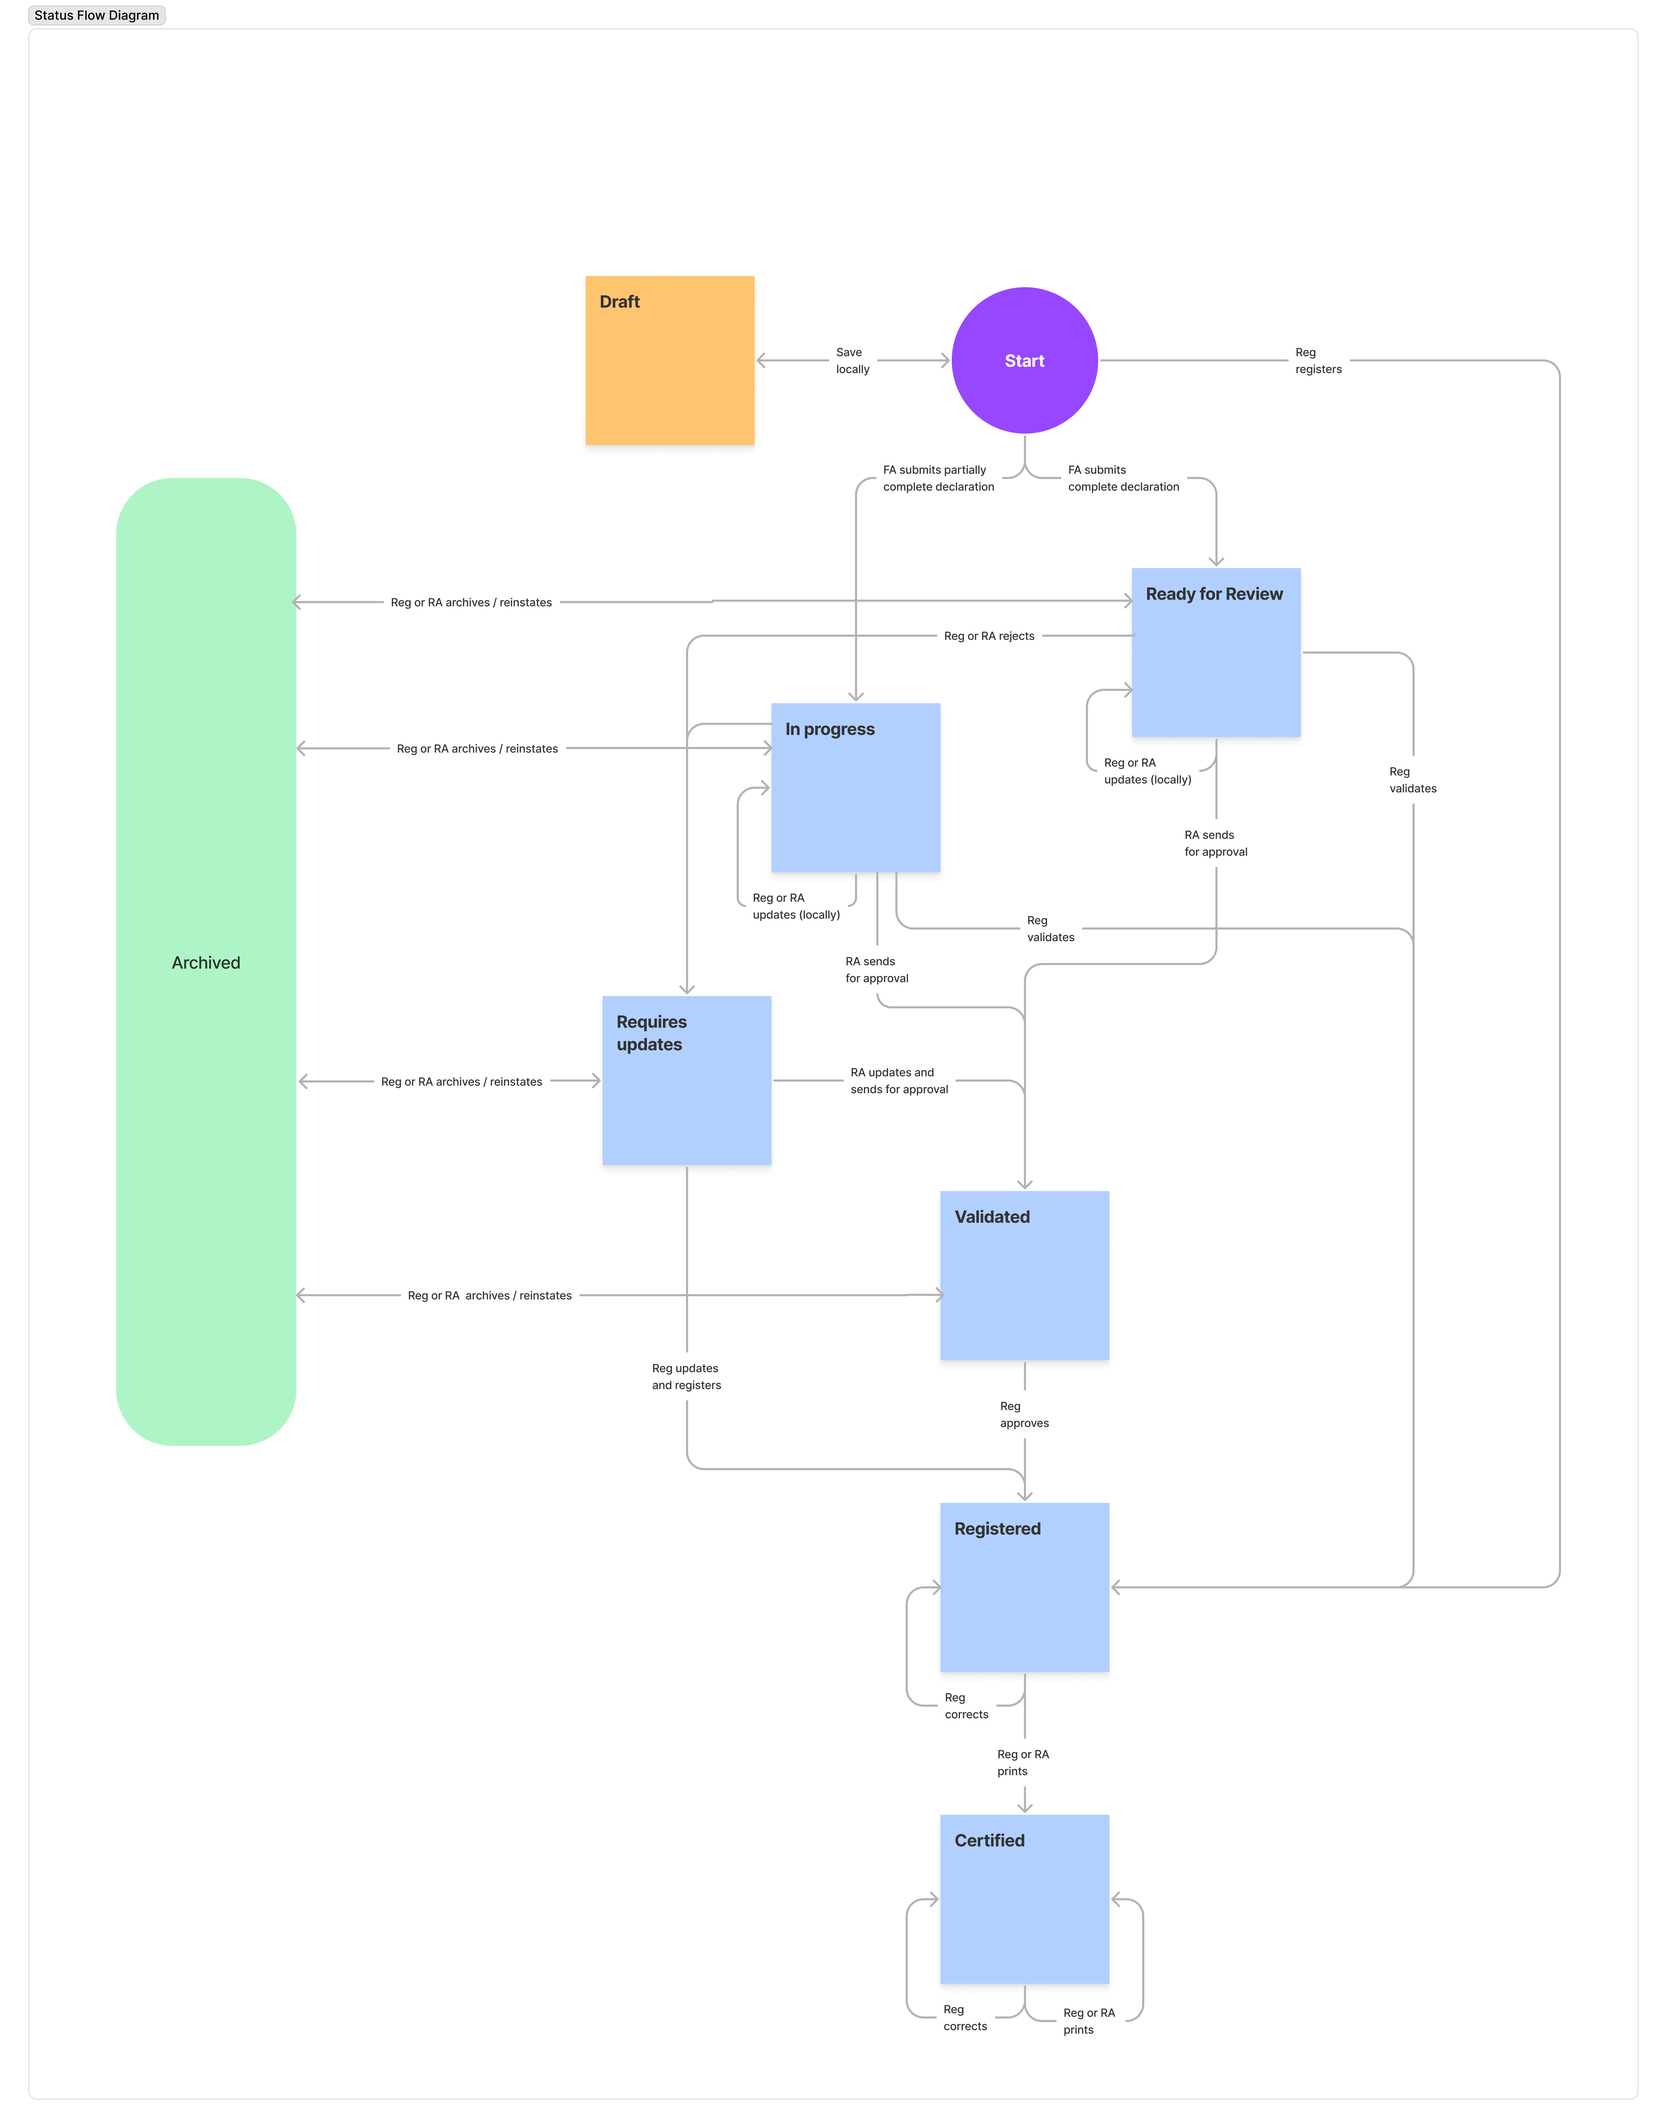
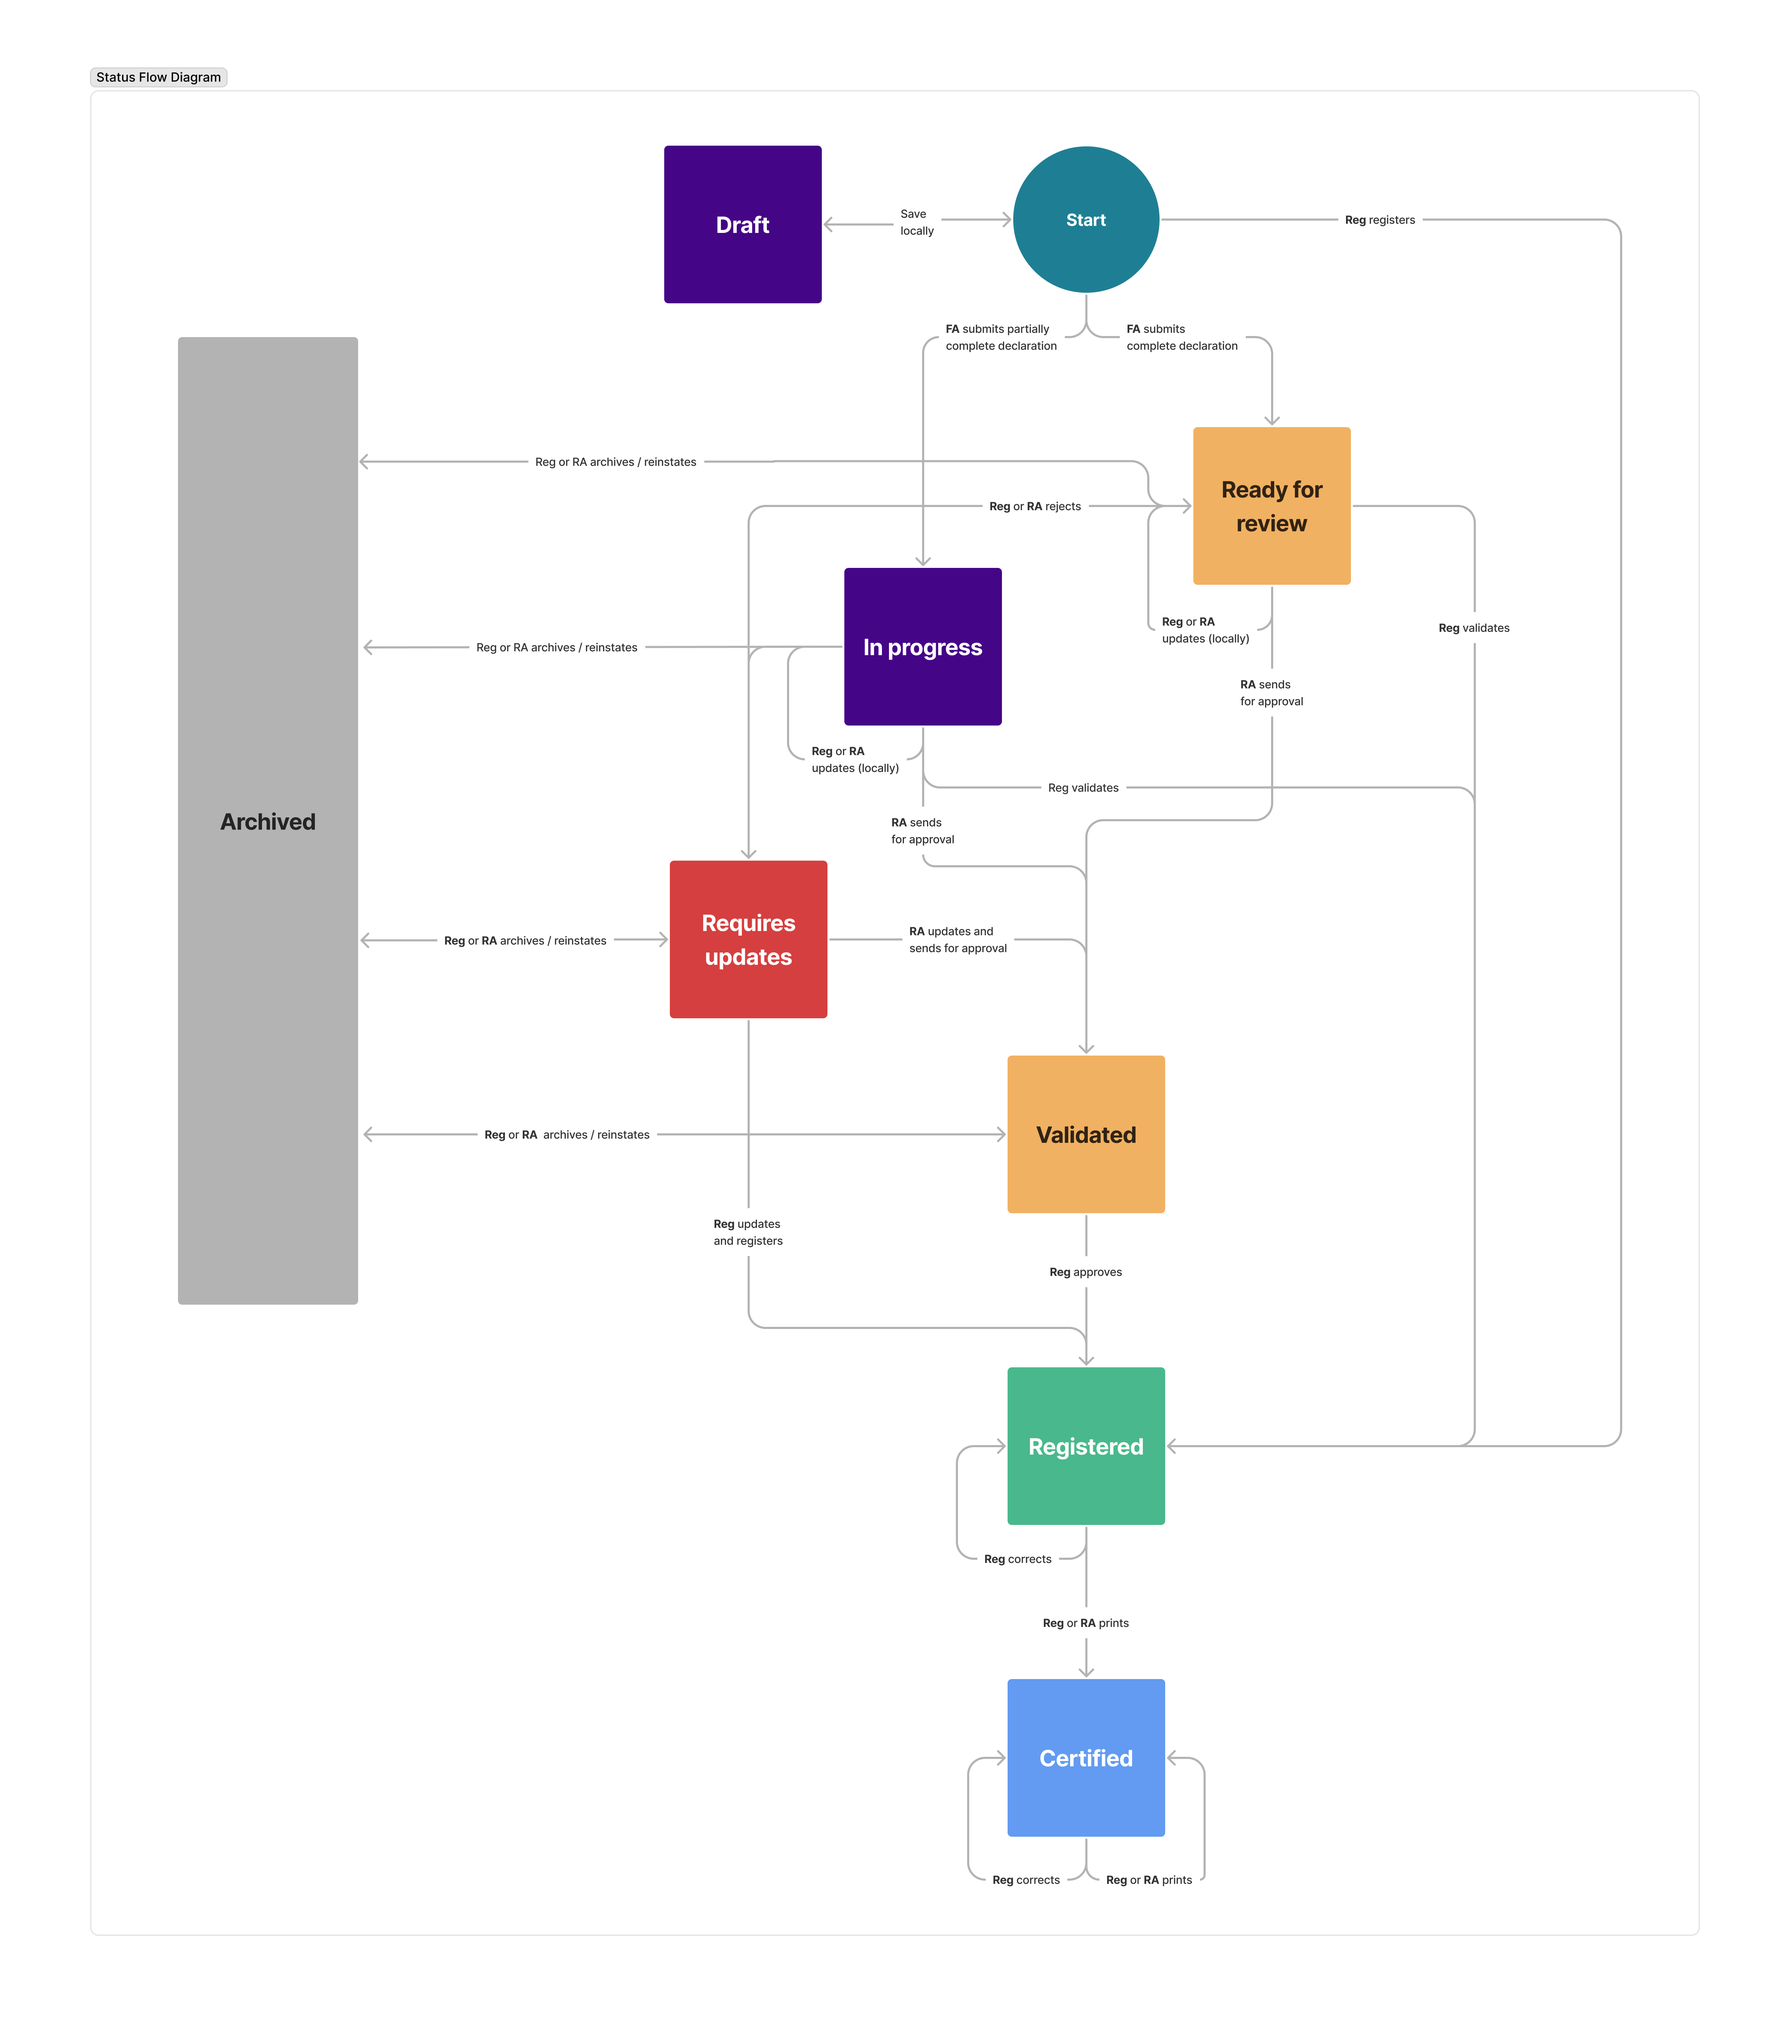
GitBook: [#433] No subject

diff --git a/product-specifications/functional-architecture.md b/product-specifications/functional-architecture.md
@@ -4,14 +4,14 @@ description: Overview of core functions
 
 # Core functions
 
-| Function                                                                | Description                                                                                                                                                           |   |
-| ----------------------------------------------------------------------- | --------------------------------------------------------------------------------------------------------------------------------------------------------------------- | - |
-| [Notify event](core-functions/1.-notify-event.md)                       | User or external system sends a vital event notification to an assigned office. The notification appears in the 'In Progress' workqueue for follow-up and completion. |   |
-| [Declare even](core-functions/2.-declare-event.md)t                     | User completes declaration form in an office or roaming (mobile) and either sends for review or registers it                                                          |   |
-| [Validate event](core-functions/3.-validate-event.md)                   | User reviews submitted declaration form against supporting documents                                                                                                  |   |
-| [Register event](core-functions/4.-register-event.md)                   | User registers vital event                                                                                                                                            |   |
-| [Issue certificate](core-functions/5.-issue-certificate.md)             | User prints and issues a certificate                                                                                                                                  |   |
-| [Search for a record](core-functions/6.-search-for-a-record.md)         | User searches and retrieves a vital event record                                                                                                                      |   |
-| [Correct record](core-functions/7.-correct-record.md)                   | User corrects a record, providing a reason for the correction                                                                                                         |   |
-| [Verify record](core-functions/8.-verify-record.md)                     | User is able to verify the existence of a birth record and see relevant details                                                                                       |   |
-| [Vital statistics export](core-functions/9.-vital-statistics-export.md) | User is able to view vital statistics data and download in required format                                                                                            |   |
+| Function                                                                | Description                                                                                                                                                           |
+| ----------------------------------------------------------------------- | --------------------------------------------------------------------------------------------------------------------------------------------------------------------- |
+| [Notify event](core-functions/1.-notify-event.md)                       | User or external system sends a vital event notification to an assigned office. The notification appears in the 'In Progress' workqueue for follow-up and completion. |
+| [Declare even](core-functions/2.-declare-event.md)t                     | User completes declaration form in an office or roaming (mobile) and either sends for review or registers it                                                          |
+| [Validate event](core-functions/3.-validate-event.md)                   | User reviews submitted declaration form against supporting documents                                                                                                  |
+| [Register event](core-functions/4.-register-event.md)                   | User registers vital event                                                                                                                                            |
+| [Issue certificate](core-functions/5.-issue-certificate.md)             | User prints and issues a certificate                                                                                                                                  |
+| [Search for a record](core-functions/6.-search-for-a-record.md)         | User searches and retrieves a vital event record                                                                                                                      |
+| [Correct record](core-functions/7.-correct-record.md)                   | User corrects a record, providing a reason for the correction                                                                                                         |
+| [Verify record](core-functions/8.-verify-record.md)                     | User is able to verify the existence of a birth record and see relevant details                                                                                       |
+| [Vital statistics export](core-functions/9.-vital-statistics-export.md) | User is able to view vital statistics data and download in required format                                                                                            |

diff --git a/product-specifications/functional-architecture/admin-functions.md b/product-specifications/functional-architecture/admin-functions.md
@@ -1,8 +1,14 @@
+---
+description: >-
+  Overview of functionality for a system administrator to effectively manage and
+  maintain the OpenCRVS product.
+---
+
 # Admin functions
 
-| Function                                                           | Description                                                            |   |
-| ------------------------------------------------------------------ | ---------------------------------------------------------------------- | - |
-| [User management](../admin-functions/17.-user-management.md)       | Manage users, including creating new users and deactivating users      |   |
-| [Comms management](../admin-functions/18.-comms-management.md)     | Manage communications that are sent to both customers and system users |   |
-| [Content management](../admin-functions/19.-content-management.md) | Manage product content (copy), including language translation          |   |
-| [Config management](../admin-functions/20.-config-management.md)   | Configure the product to reflect country needs                         |   |
+| Function                                                           | Description                                                            |
+| ------------------------------------------------------------------ | ---------------------------------------------------------------------- |
+| [User management](../admin-functions/17.-user-management.md)       | Manage users, including creating new users and deactivating users      |
+| [Comms management](../admin-functions/18.-comms-management.md)     | Manage communications that are sent to both customers and system users |
+| [Content management](../admin-functions/19.-content-management.md) | Manage product content (copy), including language translation          |
+| [Config management](../admin-functions/20.-config-management.md)   | Configure the product to reflect country needs                         |

diff --git a/product-specifications/status-flow.md b/product-specifications/status-flow.md
@@ -2,4 +2,4 @@
 
 The status flow diagram shows all the vital event record statuses in OpenCRVS and how it is possible to move from one to the next.&#x20;
 
-{% embed url="https://www.figma.com/file/KaQ7H57nFsoIhOCtzAOGz1/Status-Flow-v1?node-id=0:1" %}
+![](<../.gitbook/assets/Status WorkFlow.png>)

diff --git a/product-specifications/data-functions/22.-legacy-paper-import.md b/product-specifications/data-functions/22.-legacy-paper-import.md
@@ -1,3 +1,5 @@
-# Legacy paper import
+# 22. Legacy paper import
 
 **Coming soon**
+
+Digitise paper records for further, digital use.&#x20;
